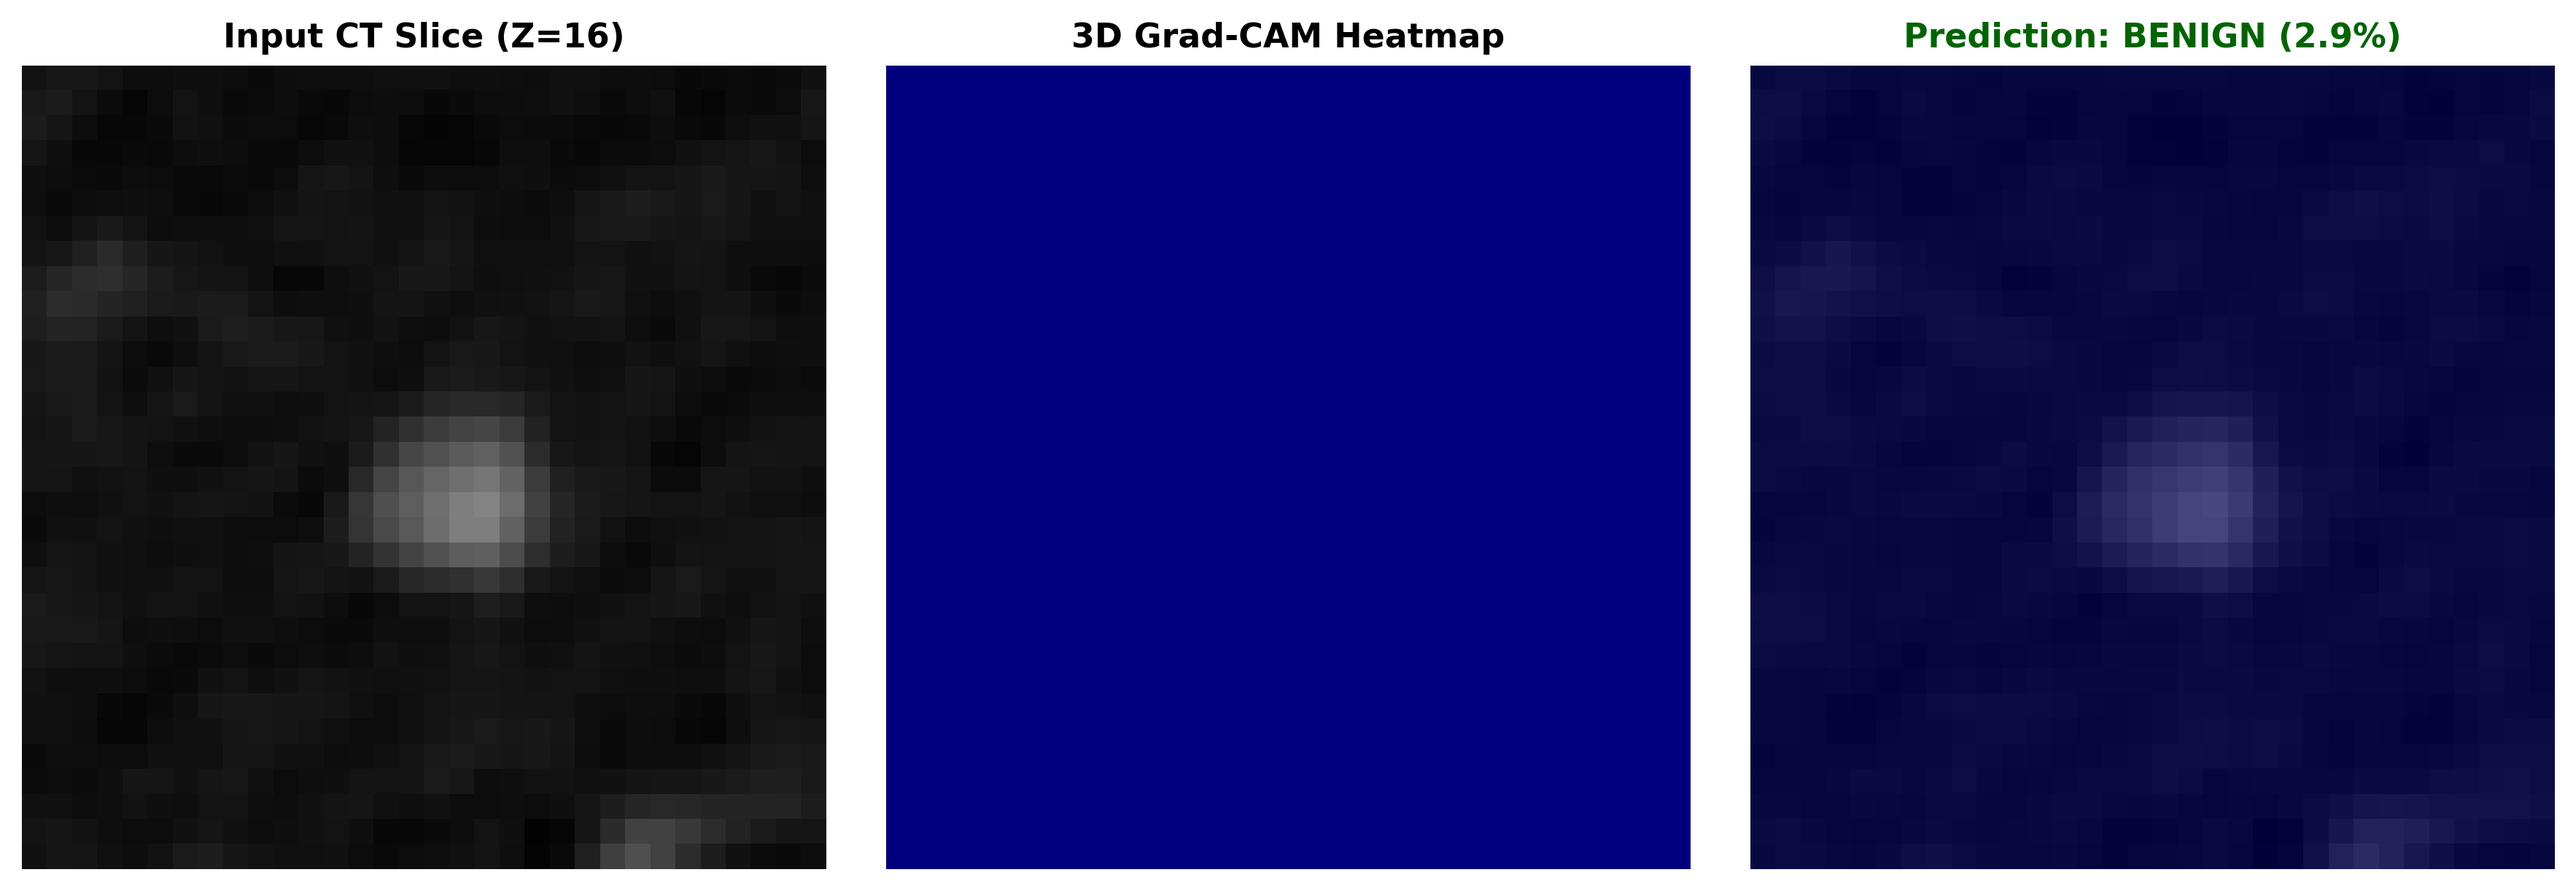
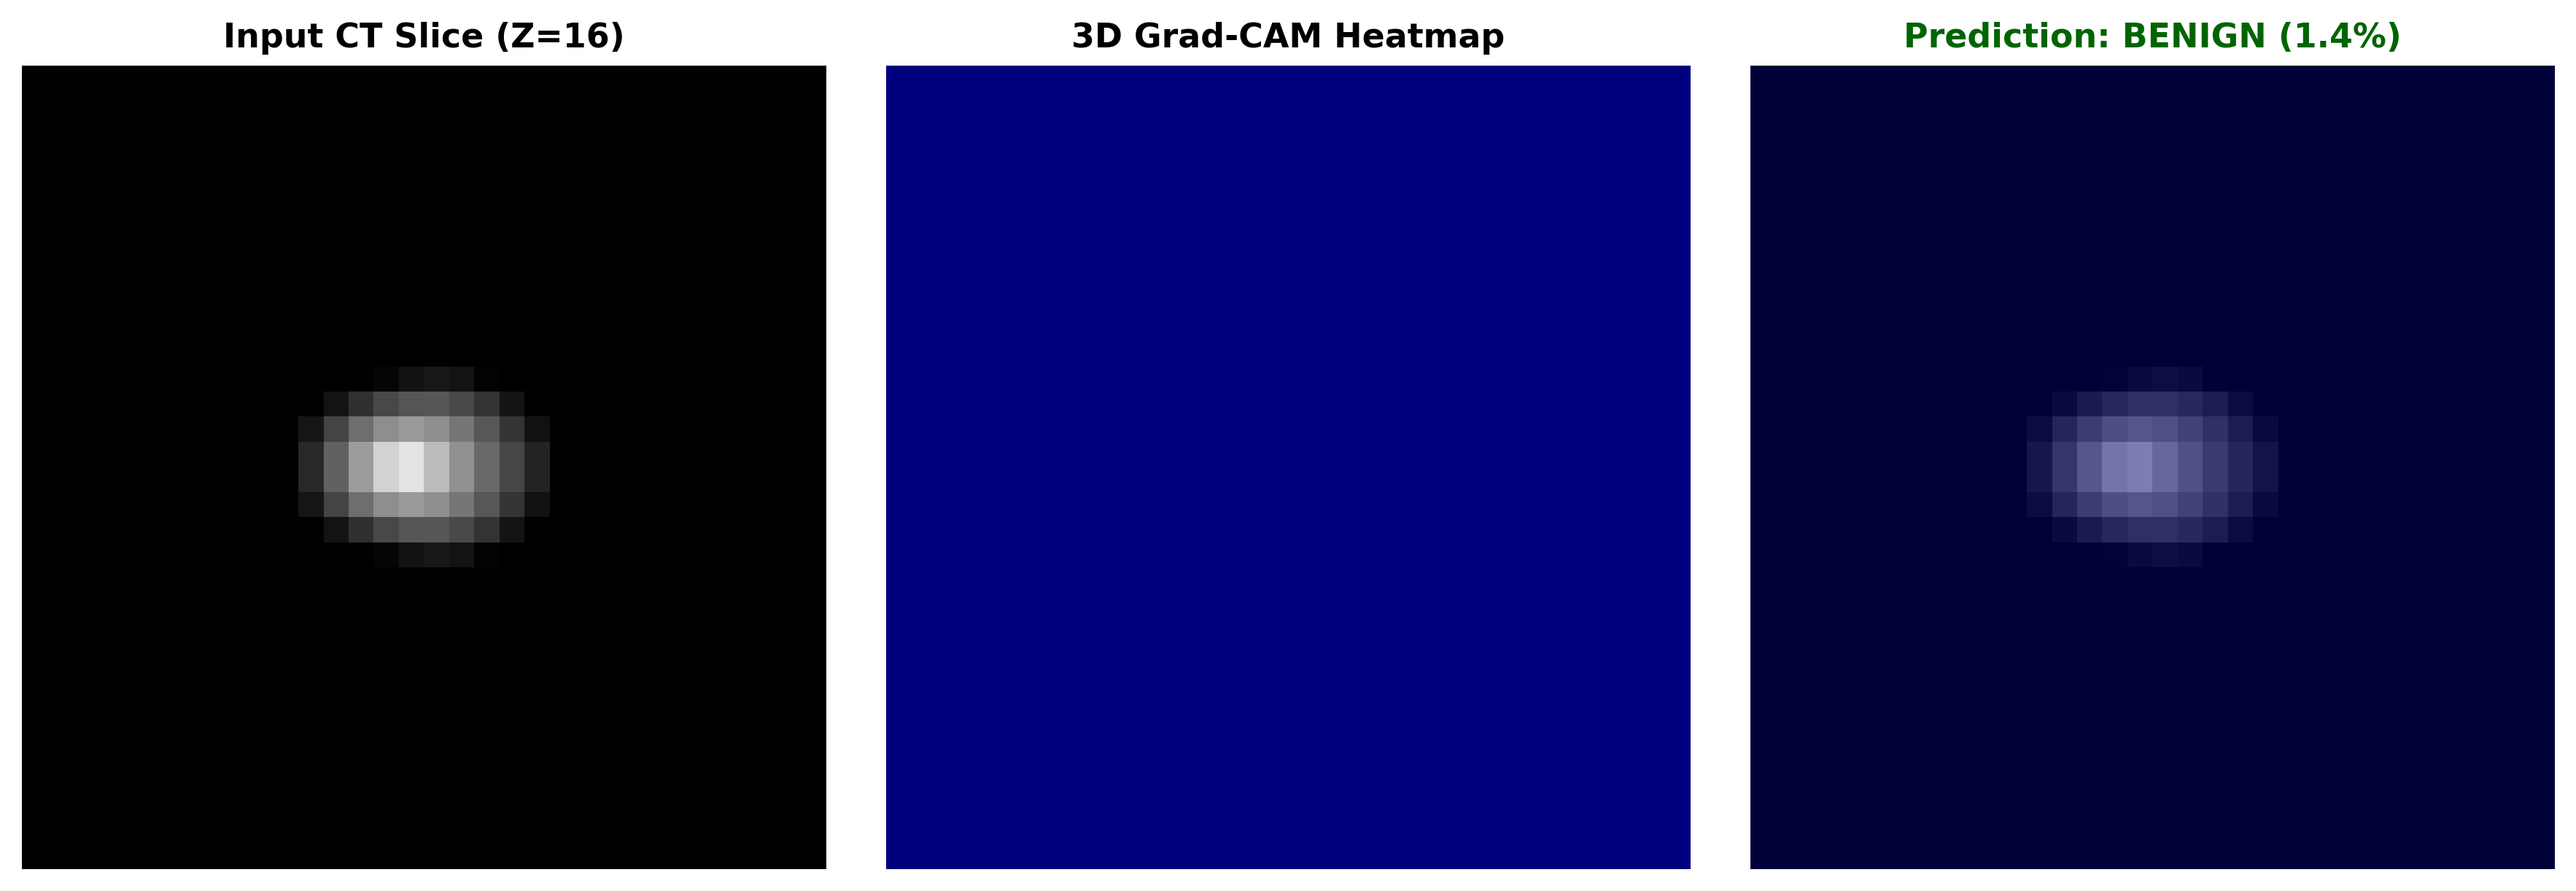
fix: correct BASE_DIR paths across pipelines, app, and tests by adding an extra parent directory lookup

diff --git a/pipelines/stage3_gradcam_eval.py b/pipelines/stage3_gradcam_eval.py
@@ -19,7 +19,7 @@ from torchvision.models.video import r3d_18
 # ==============================================================================
 # 1. SETUP & DEVICE
 # ==============================================================================
-BASE_DIR = os.path.dirname(os.path.abspath(__file__))
+BASE_DIR = os.path.dirname(os.path.dirname(os.path.abspath(__file__)))
 PROCESSED_DIR = os.path.join(BASE_DIR, "lidc_processed")
 PATCHES_DIR = os.path.join(PROCESSED_DIR, "patches")
 RESULTS_DIR = os.path.join(BASE_DIR, "results")

diff --git a/tests/test_inference.py b/tests/test_inference.py
@@ -13,7 +13,7 @@ import torch.nn as nn
 from torchvision.models.video import r3d_18
 
 # Setup paths and device
-BASE_DIR = os.path.dirname(os.path.abspath(__file__))
+BASE_DIR = os.path.dirname(os.path.dirname(os.path.abspath(__file__)))
 PROCESSED_DIR = os.path.join(BASE_DIR, "lidc_processed")
 RESULTS_DIR = os.path.join(BASE_DIR, "results")
 CHECKPOINT_PATH = os.path.join(RESULTS_DIR, "best_3d_resnet18.pth")

diff --git a/pipelines/stage1_fast_prep.py b/pipelines/stage1_fast_prep.py
@@ -22,7 +22,7 @@ from tqdm import tqdm
 RANDOM_SEED = 42
 np.random.seed(RANDOM_SEED)
 
-BASE_DIR = os.path.dirname(os.path.abspath(__file__))
+BASE_DIR = os.path.dirname(os.path.dirname(os.path.abspath(__file__)))
 DATA_SOURCE_DIR = os.path.join(BASE_DIR, "data_source")
 NIFTI_DIR = os.path.join(DATA_SOURCE_DIR, "LIDC-IDRI")
 METADATA_PATH = os.path.join(DATA_SOURCE_DIR, "LIDC-IDRI_1176.npy")

diff --git a/app/app.py b/app/app.py
@@ -25,7 +25,7 @@ st.set_page_config(
     initial_sidebar_state="expanded",
 )
 
-BASE_DIR = os.path.dirname(os.path.abspath(__file__))
+BASE_DIR = os.path.dirname(os.path.dirname(os.path.abspath(__file__)))
 CHECKPOINT_PATH = os.path.join(BASE_DIR, "results", "best_3d_resnet18.pth")
 
 # Fallback to FP16 checkpoint if original was converted

diff --git a/pipelines/stage2_train_and_compare.py b/pipelines/stage2_train_and_compare.py
@@ -58,7 +58,7 @@ if torch.cuda.is_available():
 # 2. PATH CONFIGURATION
 # ==============================================================================
 
-BASE_DIR = os.path.dirname(os.path.abspath(__file__))
+BASE_DIR = os.path.dirname(os.path.dirname(os.path.abspath(__file__)))
 
 PROCESSED_DIR = os.path.join(
     BASE_DIR,

diff --git a/tests/test_custom_sample.py b/tests/test_custom_sample.py
@@ -23,7 +23,7 @@ elif torch.backends.mps.is_available():
 else:
   DEVICE = torch.device("cpu")
 
-BASE_DIR = os.path.dirname(os.path.abspath(__file__))
+BASE_DIR = os.path.dirname(os.path.dirname(os.path.abspath(__file__)))
 CHECKPOINT_PATH = os.path.join(BASE_DIR, "results", "best_3d_resnet18.pth")
 
 
